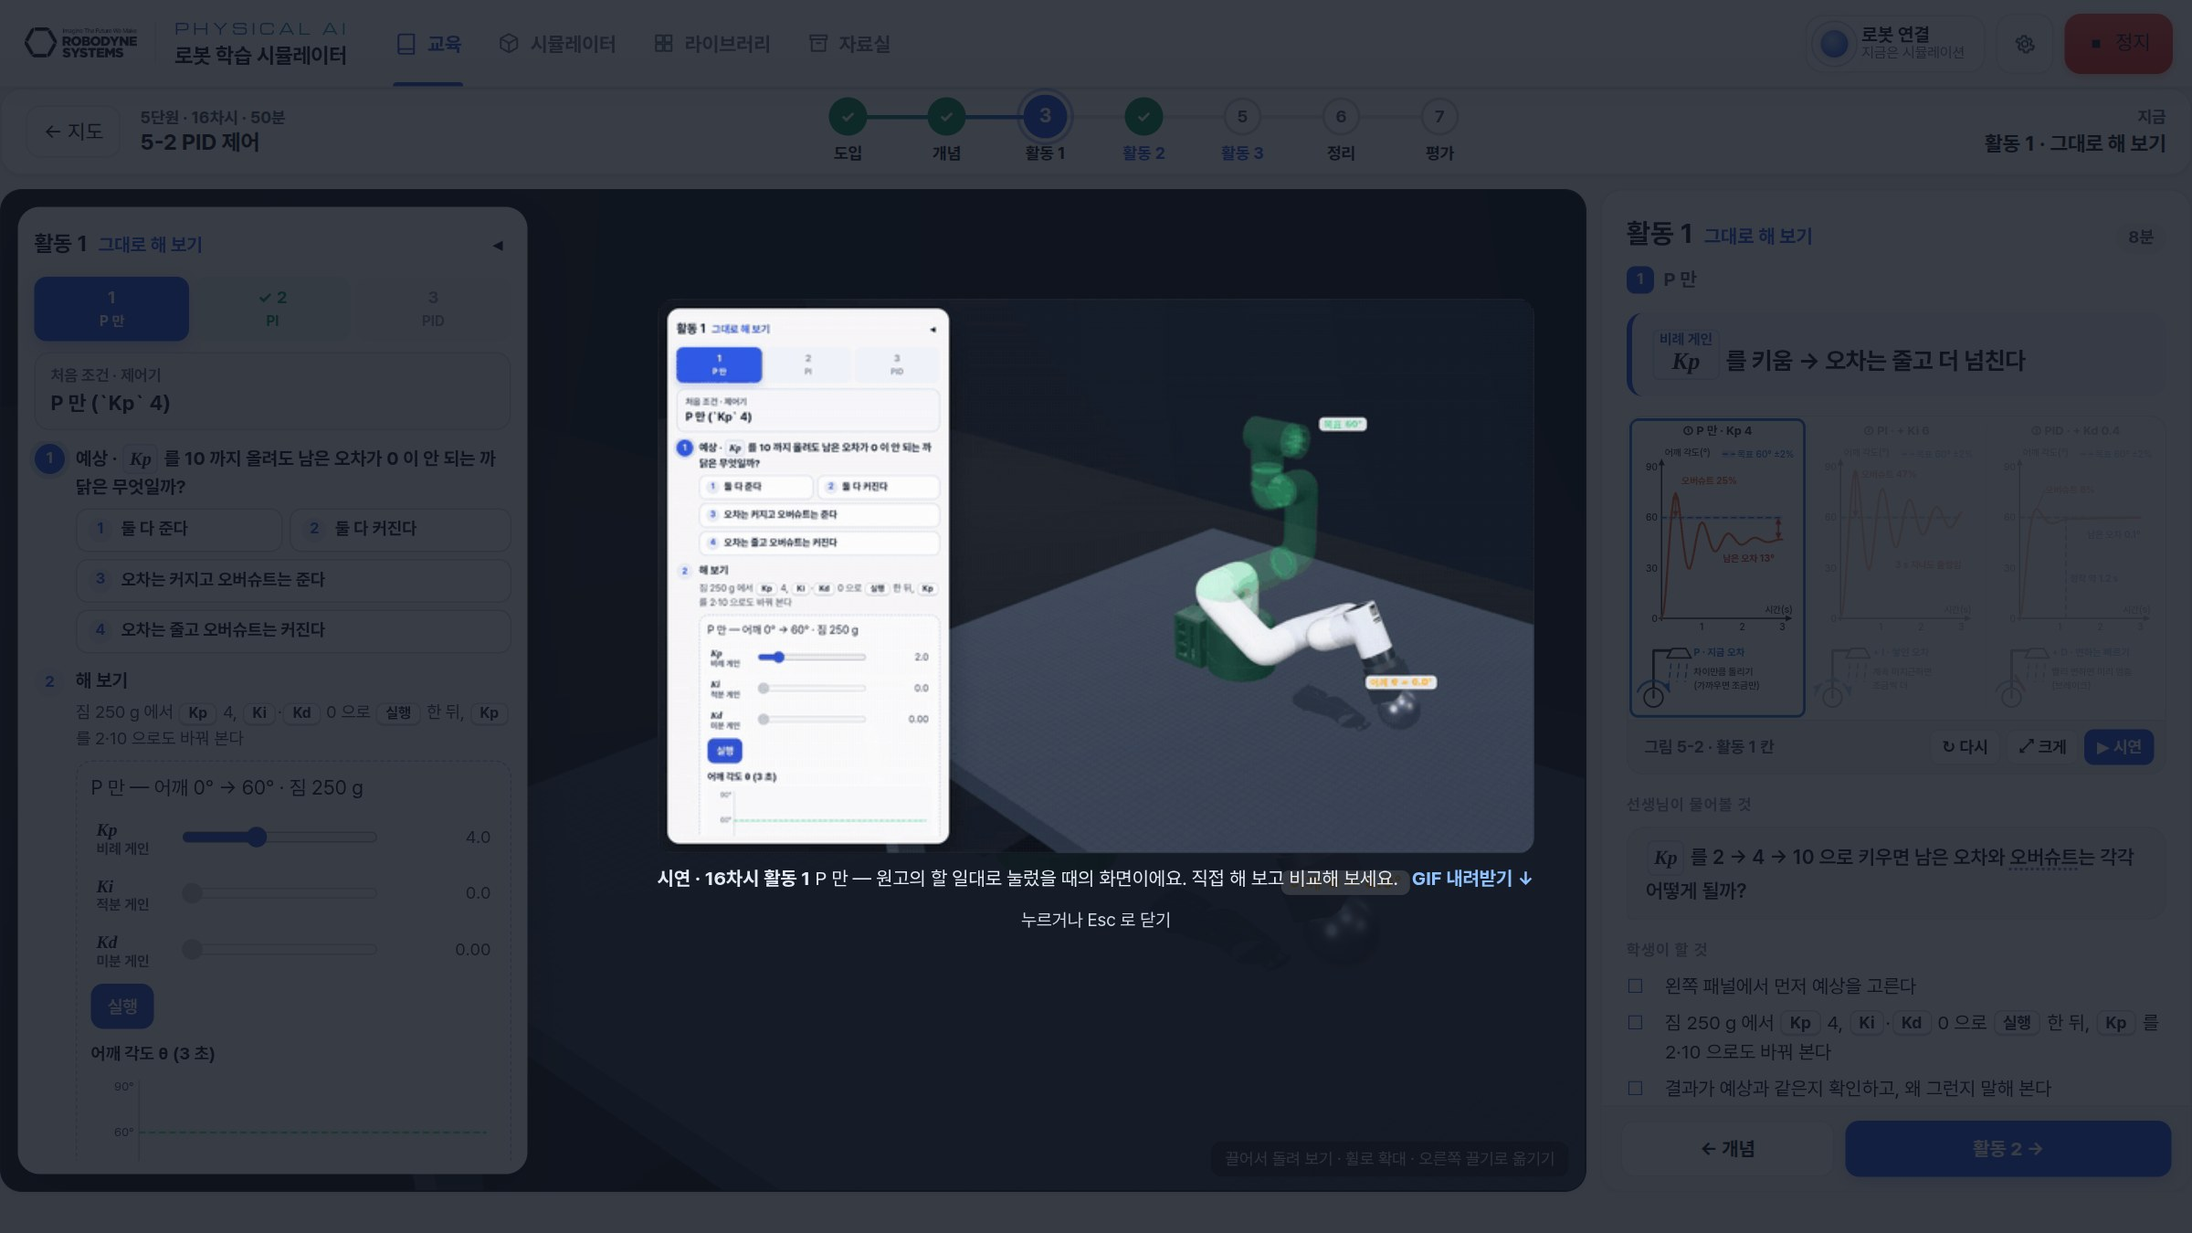
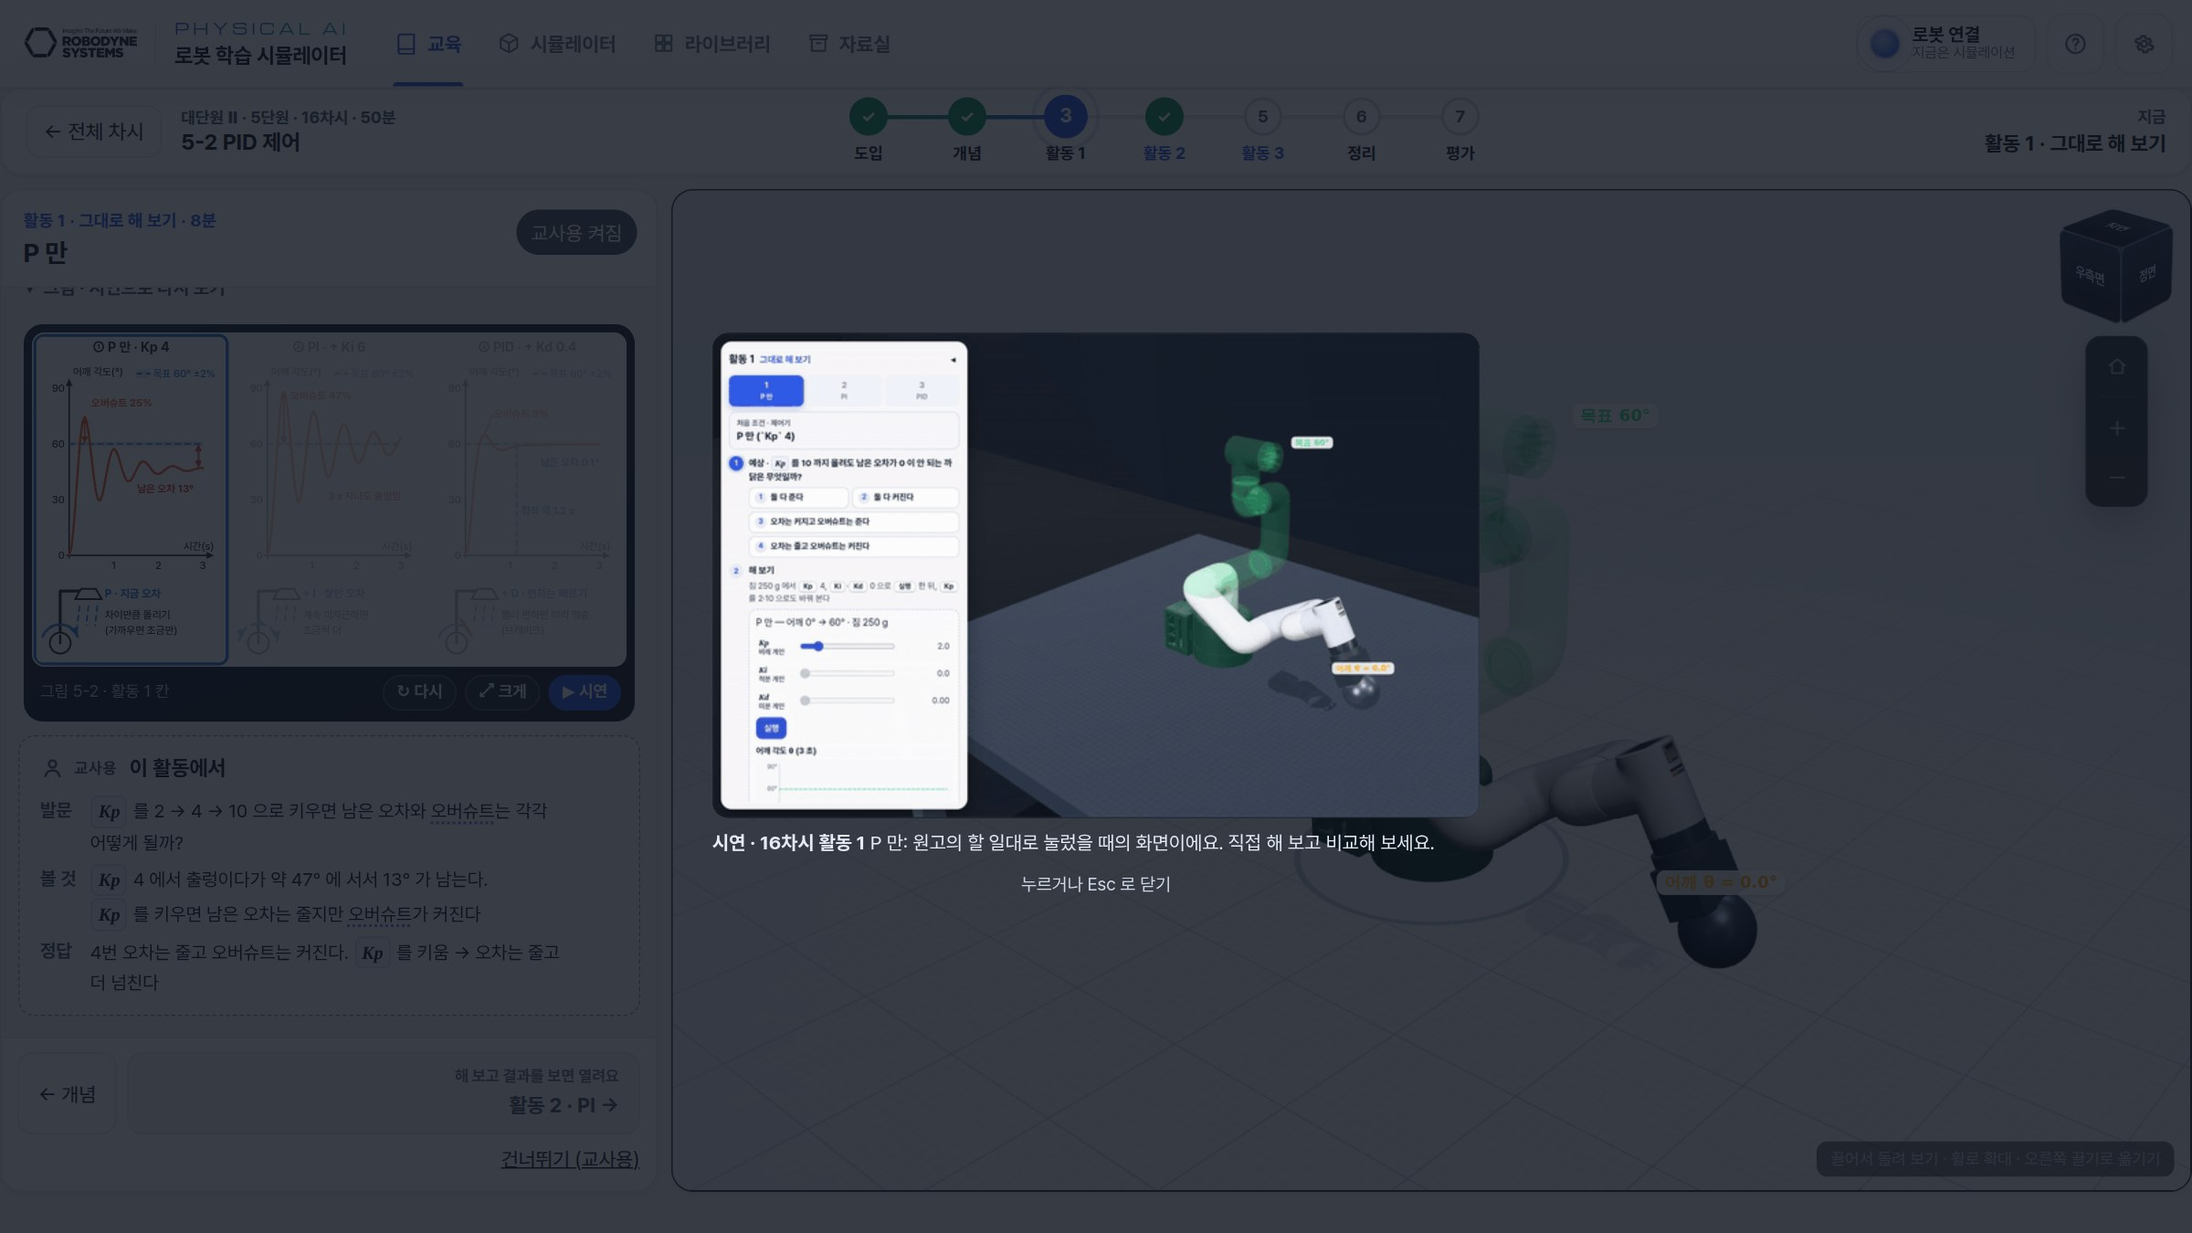
Teacher guide: lesson screen chapters describe the rail (blocks, 교사용 보기, activity flow); pictures re-taken
Claude-Session: https://claude.ai/code/session_01KrwKgPsQRjzjbDSQEMYCSA

diff --git a/manuals/course/teacher-guide.md b/manuals/course/teacher-guide.md
@@ -146,45 +146,48 @@ toclead: 처음이면 1장(과정 한눈에 — 지도와 미리보기)과 3장(
 ## 수업 흐름
 
 모든 차시가 같은 순서입니다. 수업 화면 위쪽의 **단계 막대**(도입 · 개념 · 활동 1 · 2 · 3 · 정리 · 평가)가 이 흐름 그대로이고,
-지금 하는 단계가 파랗게 깜빡이며 끝낸 단계에는 ✓ 가 붙습니다. 대학교(75분)는 개념 · 활동 · 정리 · 평가가 조금씩 길어집니다.
+지금 하는 단계가 파랗게 표시되며 끝낸 단계에는 ✓ 가 붙습니다. 대학교(75분)는 개념 · 활동 · 정리 · 평가가 조금씩 길어집니다.
 
 ![한 차시 50분의 흐름](img/d-lesson-flow.png)
 
 ## 수업 화면 구성
 
+수업 화면은 **왼쪽 한 줄(수업 레일)** 에 학생이 읽고 · 고르고 · 해 보는 것이 순서대로 있고, 오른쪽이 3D 화면입니다.
+
 ![수업 화면 — 16차시 PID 제어, 활동 2](img/03-topic.jpg)
 
 ::: marks
-1. **단계 막대** — ← 지도, 차시 이름, 7단계와 "지금" 하는 단계. 단계를 누르면 그리로 갑니다.
-2. **활동 패널** — 활동 단계에서 바꾸는 것 · 예상 · 해 보기 · 결과 · 왜를 차례로 보여 줍니다. ◂ 로 접을 수 있습니다.
-3. **3D 화면** — 로봇이 움직이는 곳. 패널에 가리지 않게 로봇이 빈 곳 가운데에 섭니다.
-4. **수업 카드** — 지금 단계의 핵심 한 줄, 그림, 선생님이 물어볼 것, 학생이 할 것, 정답. 아래 [← 이전] [다음 →].
+1. **단계 막대** — 도입 · 개념 · 활동 1 · 2 · 3 · 정리 · 평가. 끝낸 단계에 ✓. 단계를 누르면 그리로 갑니다. 왼쪽 **[← 전체 차시]** 는 교육 홈으로.
+2. **수업 레일** — 지금 단계의 이름 · 시간과, 그 단계에서 할 것이 블록으로 차례로 있습니다.
+3. **3D 화면** — 로봇이 움직이는 곳. 끌어서 돌려 보고, 휠로 확대합니다.
+4. **[교사용 보기]** — 선생님이 물어볼 것 · 볼 것 · 정답이 점선 블록으로 레일에 더해집니다. 학급 계정으로 로그인한 학생 화면에는 나오지 않습니다.
+5. **아래 큰 버튼** — 다음 단계 이름이 적혀 있습니다. 활동은 해 보고 결과가 나와야 열립니다. 선생님은 **[건너뛰기 (교사용)]** 로 수업 속도에 맞춰 넘길 수 있습니다(끝낸 것으로 치지 않음).
 :::
 
-> 팁: 카드는 짧게 쓰여 있고, 긴 설명은 **자세히 · 정답 보기** 를 눌러야 펼쳐집니다. 수업 중에는 핵심 한 줄과 발문만 읽어도 흐름이 이어집니다.
+블록은 종류마다 색이 다릅니다: **개념**(흰색, 읽을 것) · **질문**(주황, 고를 것) · **해 보기**(파랑, 직접 움직일 것) · **결과**(초록) · **교사용**(점선, 선생님만).
 
 ## 도입 (5분) — 질문으로 시작
 
 ::: cols
-![도입 카드](img/04-intro.jpg)
+![도입 — 오늘의 질문 · 그림 · 오늘 배울 것](img/04-intro.jpg)
 +++
-**카드에 있는 것**: 오늘의 질문(핵심 한 줄), 움직이는 그림, **선생님이 물어볼 것** 1~2개, **학생이 할 것**, 접힌 *학습 목표 · 핵심 정의*, 용어.
+**레일에 있는 것**: 오늘의 질문, 움직이는 그림(세 칸 = 오늘의 활동 1 · 2 · 3), 오늘 배울 것. [교사용 보기] 를 켜면 *도입에서* 물어볼 것과 예상 답이 더해집니다.
 
 **선생님이 할 일**
-- 물어볼 것을 그대로 읽고 학생 2~3 명의 생각을 듣습니다. **답을 알려 주지 않습니다.** 정리 단계에서 다시 이 질문으로 돌아옵니다.
-- 그림의 세 칸이 오늘의 활동 1 · 2 · 3 이라고 짚어 줍니다.
+- 오늘의 질문을 그대로 읽고 학생 2~3 명의 생각을 듣습니다. **답을 알려 주지 않습니다.** 정리 단계에서 다시 이 질문으로 돌아옵니다.
+- 그림의 세 칸이 오늘의 활동 1 · 2 · 3 이라고 짚어 줍니다. [⤢ 크게] 로 프로젝터에 크게 띄울 수 있습니다.
 :::
 
 ## 개념 (10분) — 원리만 짧게
 
-**카드에 있는 것**: 핵심 정의 한 줄, 원리 2~3줄, 그림, 개념 확인 질문, 접힌 *자세히 · 기호*(대학교는 수식도).
+**레일에 있는 것**: 핵심 한 줄, 원리 2~3줄, 그림, 접힌 자세한 설명 · 기호(대학교는 수식도). [교사용 보기] 를 켜면 *개념에서* 확인 질문과 답이 더해집니다.
 
 **선생님이 할 일**
-- 원리 2~3줄만 확실히 짚고, 개념 확인 질문으로 이해를 확인합니다. 자세한 설명은 탐구 활동 뒤에 읽으면 더 잘 이해됩니다.
+- 원리 2~3줄만 확실히 짚고, 확인 질문으로 이해를 확인합니다. 자세한 설명은 탐구 활동 뒤에 읽으면 더 잘 이해됩니다.
 - 본문의 파란 기호 칩(예: `Kp`)은 누르면 읽는 법 · 뜻 · 단위가 나옵니다(오른쪽 그림).
 
 ::: cols
-![개념 카드](img/05-concept.jpg)
+![개념](img/05-concept.jpg)
 +++
 ![기호 칩을 누르면 — 읽는 법 · 뜻 · 단위](img/11-symbol.png)
 :::
@@ -192,36 +195,35 @@ toclead: 처음이면 1장(과정 한눈에 — 지도와 미리보기)과 3장(
 ## 탐구 활동 1 · 2 · 3 (8분씩) — 한 가지만 바꿔 세 번
 
 세 활동은 **같은 동작에서 한 가지만** 바꿉니다. 활동 1은 *그대로 해 보기*, 활동 2는 *하나 바꿔 보기*, 활동 3은 *한 번 더 바꾸기* 입니다.
-무엇이 바뀌는지는 활동 패널 맨 위 **바꾸는 것** 상자에 크게 나옵니다(예: P → PI → PID).
+무엇이 바뀌는지는 레일 맨 위 **이번에 바꾸는 것** 상자에 크게 나옵니다(예: P → PI → PID).
 
 ![탐구 활동 하나의 흐름](img/d-activity-cycle.png)
 
-### 활동 패널 — 예상 → 해 보기 → 결과 → 왜
+### 활동 하나 — 예상 → 해 보기 → 결과 → 왜
 
 ::: cols
-![활동 패널 — 16차시 활동 2](img/07-overlay.png)
+![활동 — 16차시 활동 2를 해 본 뒤](img/07-rail.png)
 +++
 ::: marks
-1. **세 활동** — 끝낸 활동에 ✓. 누르면 그 활동으로 갑니다.
-2. **바꾸는 것** — 이번 활동에서 바뀌는 한 가지와 앞 → 뒤 값.
-3. **① 예상** — 하기 전에 보기 중 하나를 고릅니다.
-4. **② 해 보기** — 그 차시의 버튼 · 막대 · 그래프. 할 일 한 줄이 위에 있습니다.
-5. **③ 결과** — 예상이 맞았는지, 핵심 한 줄, 시뮬레이터가 잰 값.
-6. **④ 왜 그럴까?** — 한 문장 이유, [더 보기] 로 긴 설명.
+1. **이번에 바꾸는 것** — 이번 활동에서 바뀌는 한 가지와 앞 → 뒤 값.
+2. **① 예상** — 하기 전에 보기 중 하나를 고릅니다. 고르면 ② 가 열립니다.
+3. **② 해 보기** — 할 일 한 줄과 그 차시의 막대 · 버튼 · 그래프. [ⓘ 조작 설명 보기] 로 각 조작의 설명을 펼칩니다.
+4. **③ 결과** — 예상이 맞았는지, 정답, 핵심 한 줄, 시뮬레이터가 잰 값.
+5. **④ 왜 그럴까?** — 한 문장 이유와, 더 깊이 알고 싶을 때 볼 이론서 PDF 쪽.
 :::
 :::
+
+지금 할 블록은 테두리가 진하고, 아직 차례가 아닌 블록은 접혀 있습니다.
 
 **선생님이 할 일**
 - 예상을 먼저 고르게 한 뒤 해 보게 합니다. 예상이 틀려도 괜찮다고 미리 말해 줍니다. 인쇄 교재에도 같은 보기가 있습니다.
-- 조를 돌며 카드의 **선생님이 물어볼 것** 을 묻습니다. 결과가 나오면 "예상과 무엇이 달랐나요?" 를 묻습니다.
-- 왜 그럴까는 학생이 먼저 자기 말로 설명해 보게 한 뒤 펼칩니다.
+- [교사용 보기] 를 켜 두면 레일 아래에 **이 활동에서**(발문 · 볼 것 · 정답)가 나옵니다. 조를 돌며 발문을 묻고, 결과가 나오면 "예상과 무엇이 달랐나요?" 를 묻습니다.
+- 왜 그럴까는 학생이 먼저 자기 말로 설명해 보게 한 뒤 읽게 합니다.
 
 ::: cols
-![활동 카드 — 핵심 · 그림(이번 활동 칸 강조) · 물어볼 것 · 할 일](img/06-activity.jpg)
+![교사용 보기를 켠 활동 — 아래에 "이 활동에서"](img/06-activity.jpg)
 +++
-**활동 카드에 있는 것**: 이번 활동의 핵심 한 줄, 그림(이번 활동 칸만 파란 테두리), 선생님이 물어볼 것(예상 질문), 학생이 할 것, 접힌 *정답 · 설명*.
-
-**시연 보기** — 카드 그림 아래 **[▶ 시연]** 을 누르면, 원고의 할 일대로 했을 때의 화면(GIF)이 크게 나옵니다.
+**시연 보기** — 레일 아래 **그림 · 시연으로 다시 보기** 를 펼치고 **[▶ 시연]** 을 누르면, 원고의 할 일대로 했을 때의 화면(GIF)이 크게 나옵니다.
 막힌 조에 보여 주거나, 해 본 뒤 결과를 비교할 때 씁니다. 창 아래 [GIF 내려받기] 로 수업 슬라이드에 넣을 수 있습니다.
 :::
 
@@ -230,11 +232,13 @@ toclead: 처음이면 1장(과정 한눈에 — 지도와 미리보기)과 3장(
 ## 정리 (6분) — 세 활동 비교
 
 ::: cols
-![정리 카드 — 기억할 것 · 세 활동 한눈에 · 결과 표 · 정리 질문](img/09-wrapup.jpg)
+![정리 — 세 활동 결과 · 끝난 3D 화면 · 알게 된 것](img/09-wrapup.jpg)
 +++
+**레일에 있는 것**: 세 활동 결과 표, 세 활동이 끝난 3D 화면(크게 보기), 그래서 알게 된 것, 현장에서는, 학습 목표 확인.
+
 **선생님이 할 일**
-- **세 활동 한눈에** 를 함께 읽고, 바꾼 한 가지가 어떤 값을 어떻게 바꿨는지 한 문장으로 말하게 합니다.
-- **정리 질문** 을 묻고 답을 들은 뒤 [정답 보기] 로 확인합니다. 도입의 질문으로 돌아가 다시 답하게 합니다.
+- **세 활동 결과** 를 함께 읽고, 바꾼 한 가지가 어떤 값을 어떻게 바꿨는지 한 문장으로 말하게 합니다.
+- 도입의 질문으로 돌아가 다시 답하게 합니다. [교사용 보기] 의 정리 질문과 답을 씁니다.
 - **현장에서는** 으로 이 개념이 실제 산업 현장 어디에 쓰이는지 이어 줍니다.
 - 학습 목표 확인을 학생이 스스로 표시하게 합니다.
 :::
@@ -242,22 +246,21 @@ toclead: 처음이면 1장(과정 한눈에 — 지도와 미리보기)과 3장(
 ## 평가 (5분) — 형성 평가와 다음 차시
 
 - 확인 문제는 **OX 3 + 객관식 2** 입니다. 누르면 바로 맞음 · 틀림과 해설이 나옵니다. 대학교면 심화 문항이 더해집니다.
-- 다 맞히면 그 차시가 끝난 것으로 표시되고, 교육 홈의 진도가 올라가며 다음 차시 버튼이 열립니다. 틀린 문제는 교육 홈의 **[↻ 틀린 문제]** 에 모여 다시 풀 수 있습니다.
-- 맨 아래 **다음 차시** 카드로 다음 차시의 질문을 미리 보여 주고 마칩니다.
+- 다 맞히면 그 차시가 끝난 것으로 표시되고, 교육 홈의 진도가 올라가며 아래 큰 버튼이 **다음 차시**로 열립니다. 틀린 문제는 교육 홈의 **[↻ 틀린 문제]** 에 모여 다시 풀 수 있습니다.
 
-![평가 카드 — 누르면 바로 채점과 해설](img/10-check.jpg){w=52}
+![평가 — 누르면 바로 채점과 해설](img/10-check.jpg){w=52}
 
 ## 수업 지도안 예시 — 16차시 PID 제어
 
 | 단계 | 시간 | 선생님 | 학생 | 화면 · 자료 |
 | --- | --- | --- | --- | --- |
-| 도입 | 5분 | "P 제어로 남은 오차를 출렁임 없이 없애려면 무엇을 더해야 할까?" 를 묻고 생각을 듣는다 | 질문에 답하고 할 일을 한다 | 도입 카드 · 그림 5-2 |
-| 개념 | 10분 | P · I · D 가 각각 지금 오차 · 쌓인 오차 · 오차의 빠르기에 반응한다는 것을 짚는다 | 기호 칩에서 `Kp` `Ki` `Kd` 의 뜻과 단위를 확인한다 | 개념 카드 |
-| 활동 1 | 8분 | 예상을 먼저 고르게 한다 | P 만으로 실행 — 남은 오차 13° 를 확인한다 | 활동 패널 · 결과 |
-| 활동 2 | 8분 | "오차는 줄었는데 무엇이 나빠졌나?" 를 묻는다 | Ki 6 을 더해 실행 — 오버슈트 47 %, 출렁임을 확인한다 | 활동 패널 · 시연 보기 |
-| 활동 3 | 8분 | 세 값의 균형을 묻는다 | Kd 0.4 를 더해 실행 — 남은 오차 0.1°, 정착 약 1.2 s 를 확인한다 | 활동 패널 |
+| 도입 | 5분 | "P 제어로 남은 오차를 출렁임 없이 없애려면 무엇을 더해야 할까?" 를 묻고 생각을 듣는다 | 질문에 답하고 할 일을 한다 | 도입 · 그림 5-2 |
+| 개념 | 10분 | P · I · D 가 각각 지금 오차 · 쌓인 오차 · 오차의 빠르기에 반응한다는 것을 짚는다 | 기호 칩에서 `Kp` `Ki` `Kd` 의 뜻과 단위를 확인한다 | 개념 |
+| 활동 1 | 8분 | 예상을 먼저 고르게 한다 | P 만으로 실행 — 남은 오차 13° 를 확인한다 | 활동 레일 · 결과 |
+| 활동 2 | 8분 | "오차는 줄었는데 무엇이 나빠졌나?" 를 묻는다 | Ki 6 을 더해 실행 — 오버슈트 47 %, 출렁임을 확인한다 | 활동 레일 · 시연 보기 |
+| 활동 3 | 8분 | 세 값의 균형을 묻는다 | Kd 0.4 를 더해 실행 — 남은 오차 0.1°, 정착 약 1.2 s 를 확인한다 | 활동 레일 |
 | 정리 | 6분 | 세 활동 한눈에를 함께 읽고 정리 질문을 묻는다 | "P 는 빠르게, I 는 끝까지, D 는 출렁임 없이" 를 자기 말로 정리한다 | 정리 쪽 · 현장에서는 |
-| 평가 | 5분 | 많이 틀린 문항을 짚는다 | 확인 문제 5개를 푼다 | 평가 카드 · 다음 차시 |
+| 평가 | 5분 | 많이 틀린 문항을 짚는다 | 확인 문제 5개를 푼다 | 평가 · 다음 차시 |
 
 # 28차시 수업 계획표
 
@@ -365,7 +368,7 @@ toclead: 처음이면 1장(과정 한눈에 — 지도와 미리보기)과 3장(
 
 | 자료 | 어디서 | 쓰는 때 |
 | --- | --- | --- |
-| 형성 평가 (OX 3 + 객관식 2) | 각 차시의 평가 카드 | 매 차시 끝 5분 — 바로 채점 · 해설 |
+| 형성 평가 (OX 3 + 객관식 2) | 각 차시의 평가 단계 | 매 차시 끝 5분 — 바로 채점 · 해설 |
 | OX 문항지 | 자료실 · 단원별 PDF | 단원을 마친 뒤 복습 · 쪽지 시험 (차시마다 10문항, 맨 뒤에 정답 · 해설) |
 | 객관식 문항지 | 자료실 · 단원별 PDF | 단원 평가 (4지 선다, 차시마다 10문항) |
 | 전체 문항집 | 자료실 | 학기말 평가 문항 고르기 (560문항) |
@@ -522,9 +525,9 @@ toclead: 처음이면 1장(과정 한눈에 — 지도와 미리보기)과 3장(
 | 인터넷이 없는 교실에서도 되나요? | 됩니다. 시뮬레이터 · 교육 탭 · 자료실 PDF 가 모두 프로그램 안에 들어 있습니다 |
 | 로봇이 한 대도 없으면? | 28차시 모두 PC 시뮬레이터만으로 운영할 수 있습니다. 지도의 점이 모두 시뮬레이터(○)로 표시됩니다 |
 | 학생마다 진도가 다르면? | 교육 홈에서 아무 단원 · 차시나 바로 열 수 있습니다. 끝낸 단원에는 ✓ 완료, 차시 점에는 초록 테두리가 남습니다 |
-| 고등학교와 대학교의 차이는? | 대학교를 고르면 한 차시가 75분이 되고, 개념 카드에 수식, 평가에 심화 문항이 더해집니다. 탐구 활동은 같습니다 |
+| 고등학교와 대학교의 차이는? | 대학교를 고르면 한 차시가 75분이 되고, 개념에 수식, 평가에 심화 문항이 더해집니다. 탐구 활동은 같습니다 |
 | 수치가 실제 로봇과 다를 수 있나요? | 기구학 · 궤적은 실제 로봇의 공식 3D 모델로 계산합니다. 4 · 5 단원의 질량 · 모터 값은 근사값이므로 경향을 봅니다 |
-| 3D 화면을 넓게 보려면? | 활동 패널 머리의 ◂ 로 패널을 접습니다. 그림은 [크게] 또는 그림 클릭 |
+| 3D 화면을 넓게 보려면? | 3D 화면 오른쪽의 [⌂] / [+] / [−] 와 휠로 맞춥니다. 그림은 [⤢ 크게] 또는 그림을 누릅니다 |
 | 시연 GIF 를 슬라이드에 넣으려면? | 자료실 → 그림 · 시연 GIF 에서 받거나, 시연 보기 창의 [GIF 내려받기] |
 | 화면 조작이 막히면? | 「시뮬레이터 사용 매뉴얼」 12장(문제가 생기면) |
 
